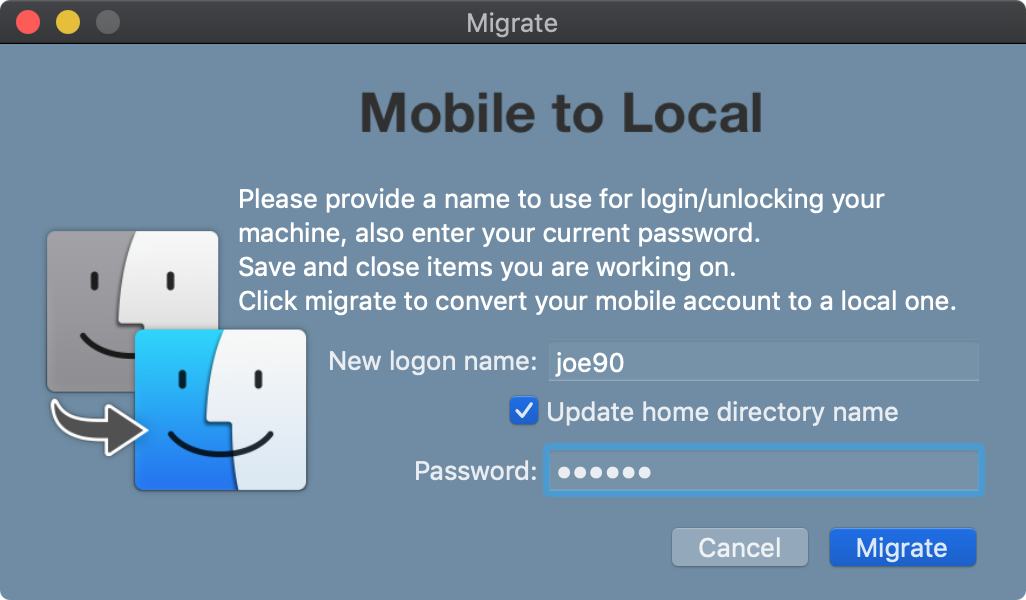
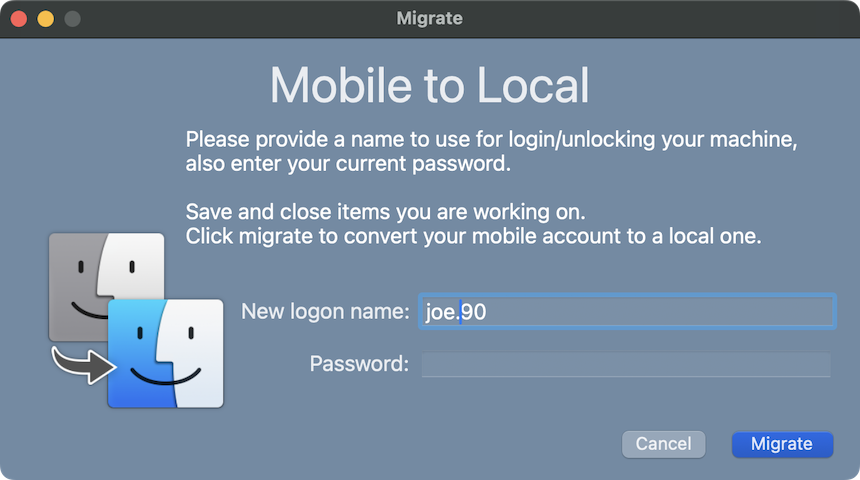
update readme

diff --git a/mobile_to_local/ViewController.swift b/mobile_to_local/ViewController.swift
@@ -336,6 +336,12 @@ class ViewController: NSViewController {
                 userType         = plistData["userType"] as? String ?? "current"
                 unbind           = plistData["unbind"] as? Bool ?? true
                 mode             = plistData["mode"] as? String ?? "interactive"
+                customMessage    = plistData["customMessage"] as? String ?? """
+                    Please provide a name to use for login/unlocking your machine, also enter your current password.
+                    
+                    Save and close items you are working on.
+                    Click migrate to convert your mobile account to a local one.
+                    """
                 if mode == "silent" {
                     silent = true
                 }
@@ -410,6 +416,7 @@ class ViewController: NSViewController {
             let newUser = myFunc.currentUser()
 //            (exitResult, errorResult, shellResult) = shell(cmd: "/bin/bash", args: ["-c","stat -f%Su /dev/console"])
 //            newUser = shellResult[0]
+            // change for testing
             newUser_TextField.stringValue = newUser
 
             // Verify we're running with elevated privileges.
@@ -493,10 +500,7 @@ class ViewController: NSViewController {
     }
     
     override func viewDidAppear() {
-
-//      Make sure the window is not restorable, to get the cursor in the username field
         NSApplication.shared.mainWindow?.makeFirstResponder(password_TextField)
-        
     }
 
 }

diff --git a/README.md b/README.md
@@ -9,7 +9,7 @@ Download: [Mobile to Local](https://github.com/BIG-RAT/mobile_to_local/releases/
 
 Wanted to create an easy to use method to migrate mobile accounts to local accounts.  One item in particular I wanted to address was ensuring a FileVault 2 enabled mobile account was migrated to a FileVault 2 enabled local account and have arrived at the following.
 
-![alt text](https://github.com/BIG-RAT/mobile_to_local/blob/master/mtl_images/main.png "Mobile to Local")
+![alt text](./mtl_images/main.png "Mobile to Local")
 
 The app should be launched with elevated privileges:
 
@@ -17,16 +17,16 @@ The app should be launched with elevated privileges:
 
 
 A notice will be displayed if the app is not launched with elevated privileges.
-![alt text](https://github.com/BIG-RAT/mobile_to_local/blob/master/mtl_images/privs.png "not elevated")
+![alt text](./mtl_images/privs.png "not elevated")
 
 The password is verified during the process, if entered incorrectly the user will be alerted.
-![alt text](https://github.com/BIG-RAT/mobile_to_local/blob/master/mtl_images/password.png "password")
+![alt text](./mtl_images/password.png "password")
 
 There is also a check to ensure the account is not already a local one.
-![alt text](https://github.com/BIG-RAT/mobile_to_local/blob/master/mtl_images/localAccount.png "local")
+![alt text](./mtl_images/localAccount.png "local")
 
 If the user is allowed to change their login name an alert will be given if the name is already taken.
-![alt text](https://github.com/BIG-RAT/mobile_to_local/blob/master/mtl_images/exists.png "exists")
+![alt text](./mtl_images/exists.png "exists")
 
 Attributes not needed for the local account are removed.  The removal process is accomplished by either using a list of attributes to remove (removeList) or a list of attributes to keep (keepList).  If no list type is provided keepList will be used.</br>
 **Important**: Starting with v3.0.0 only the keepList is used.</br>
@@ -83,6 +83,7 @@ Available switches that can be passed:
           -unbind: whether or not to unbind after migrating.  Either true or false.
             -mode: whether or not to prompt the user for input.  If mode is silent the user will not be prompted for input.
                    Silent mode cannot be used if the user does not have a secure token.
+        -message: override default text displayed on initial window.
         -listType: Defines how attributes will be removed.  Use either removeList (only available pre v3.0.0) or keepList.
 </pre>
 
@@ -91,13 +92,19 @@ To allow the user to change their login name launch the app with the -allowNewUs
 
 ```sudo /path/to/Mobile\ to\ Local.app/Contents/MacOS/Mobile\ to\ Local -allowNewUsername true```
 
-![alt text](https://github.com/BIG-RAT/mobile_to_local/blob/master/mtl_images/nameChange.png "nameChange")
+![alt text](./mtl_images/nameChange.png "nameChange")
 
 Note, the user home directory will not be renamed when changing the shortname of the user due to privacy preference restrictions.
 
 To specify the type of local account to create and unbind the machine from Active Directory use the -userType and -unbind switches:
 
 ```sudo /path/to/Mobile\ to\ Local.app/Contents/MacOS/Mobile\ to\ Local -userType admin -unbind true```
+
+Display custom text:
+
+```sudo /path/to/Mobile\ to\ Local.app/Contents/MacOS/Mobile\ to\ Local -message "Migrating your mobile account\\nEnter your existing password\\n\\nBe sure to save your work and close any applications before migrating."```
+
+![alt text](./mtl_images/customText.png "customText")
 
 To migrate a mobile account to local and set them as a standard user without prompting for input:
 
